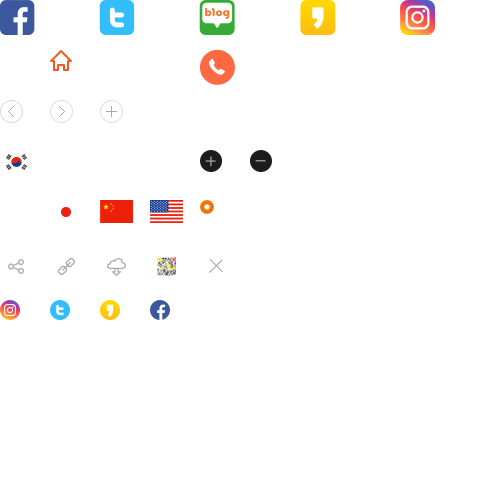
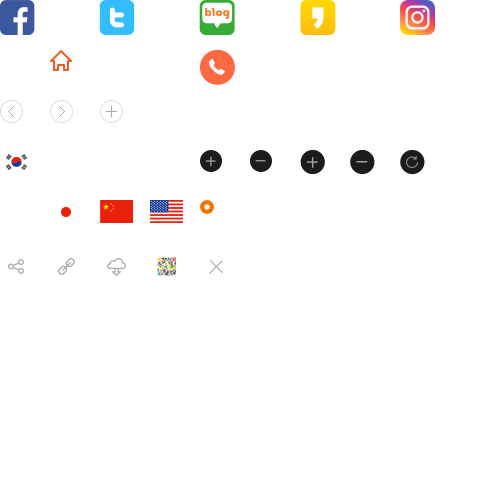
no message

diff --git a/guide/work1.html b/guide/work1.html
@@ -78,7 +78,7 @@
 					<td>민원모니터이해</td><!-- 3depth -->
 					<td></td><!-- 1depth -->
 	 				<td>usc/</td><!-- 경로 -->
-	 				<td><a href="#" target="_blank">usc_part01_01.html</a></td><!-- 파일명 -->
+	 				<td><a href="#" target="_blank">usc_part01_02.html</a></td><!-- 파일명 -->
 	 				<td></td><!-- 완료 날짜 -->
 	 				<td>0</td><!-- 작업 전 0 / 작업 중 1 / 완료 2  -->
 	 				<td></td><!-- 비고  -->
@@ -88,7 +88,7 @@
 					<td>민원실이용안내</td><!-- 3depth -->
 					<td></td><!-- 1depth -->
 	 				<td>usc/</td><!-- 경로 -->
-	 				<td><a href="#" target="_blank">usc_part01_01.html</a></td><!-- 파일명 -->
+	 				<td><a href="#" target="_blank">usc_part01_03.html</a></td><!-- 파일명 -->
 	 				<td></td><!-- 완료 날짜 -->
 	 				<td>0</td><!-- 작업 전 0 / 작업 중 1 / 완료 2  -->
 	 				<td></td><!-- 비고  -->
@@ -98,7 +98,7 @@
 					<td>방문민원상담예약신청</td><!-- 3depth -->
 					<td></td><!-- 1depth -->
 	 				<td>usc/</td><!-- 경로 -->
-	 				<td><a href="#" target="_blank">usc_part01_01.html</a></td><!-- 파일명 -->
+	 				<td><a href="#" target="_blank">usc_part01_04.html</a></td><!-- 파일명 -->
 	 				<td></td><!-- 완료 날짜 -->
 	 				<td>0</td><!-- 작업 전 0 / 작업 중 1 / 완료 2  -->
 	 				<td></td><!-- 비고  -->
@@ -108,7 +108,7 @@
 					<td>방문민원상담예약안내</td><!-- 3depth -->
 					<td></td><!-- 1depth -->
 	 				<td>usc/</td><!-- 경로 -->
-	 				<td><a href="#" target="_blank">usc_part01_01.html</a></td><!-- 파일명 -->
+	 				<td><a href="#" target="_blank">usc_part01_05.html</a></td><!-- 파일명 -->
 	 				<td></td><!-- 완료 날짜 -->
 	 				<td>0</td><!-- 작업 전 0 / 작업 중 1 / 완료 2  -->
 	 				<td></td><!-- 비고  -->

diff --git a/static/css/component.css b/static/css/component.css
@@ -39,6 +39,13 @@
 #header .header-top .header-site li a { display: block; width: 120px; font-size: 12px; color: #fff; line-height: 40px; text-align: center; }
 #header .header-top .header-site .current a { color: #f15a22; background: #fff; }
 #header .header-top .header-site li:nth-child(1).current a:before { background-position: -50px -50px; }
+#header .header-top .header-zoom { float: left; margin-left: 15px; margin-top: 7px; overflow: hidden; }
+#header .header-top .header-zoom dt { float: left; font-size: 12px; color: rgba(255, 255, 255, 0.6); line-height: 24px; }
+#header .header-top .header-zoom dd { float: left; margin-left: 10px; }
+#header .header-top .header-zoom button { width: 24px; height: 24px; background: url("../../static/images/common/sp_icon.png") no-repeat 0 0; text-indent: -999em; }
+#header .header-top .header-zoom button.btn-zoomup { background-position: -300px -150px; }
+#header .header-top .header-zoom button.btn-zoomdown { background-position: -350px -150px; }
+#header .header-top .header-zoom button.btn-zoom100 { background-position: -400px -150px; }
 #header .header-utilegroup { float: right; padding-top: 7px; }
 #header .header-utilegroup .header-utile { display: inline-block; font-size: 11px; color: #e1e1e1; }
 #header .header-utilegroup .header-utile:after { display: block; clear: both; content: ""; }

diff --git a/templates/usc/header.html b/templates/usc/header.html
@@ -10,6 +10,14 @@
 				<li><a href="#" target="_blank" title="새창으로 열림"><span>통합예약시스템</span></a></li>
 				<li><a href="#" target="_blank" title="새창으로 열림"><span>의성군립안계도서관</span></a></li>
 			</ul>
+			<dl class="header-zoom">
+				<dt>크기조절</dt>
+				<dd>
+					<button type="button" class="btn-zoomup"><span>한단계 위로 변경</span></button>
+					<button type="button" class="btn-zoomdown"><span>한단계 아래로 변경</span></button>
+					<button type="button" class="btn-zoom100"><span>기본 크기로 변경</span></button>
+				</dd>
+			</dl>
 			<div class="header-utilegroup">
 				<ul class="header-utile">
 					<li><a href="#"><span>로그인</span></a></li>

diff --git a/static/css/scss/component.scss b/static/css/scss/component.scss
@@ -55,6 +55,17 @@
 			.current a {color:#f15a22; background:#fff; }
 			li:nth-child(1).current a:before {background-position: -50px -50px;} 
 		}
+		.header-zoom {
+			float: left; margin-left: 15px; margin-top: 7px; overflow: hidden;
+			dt {float: left;font-size: 12px; color:rgba(256,256,256,0.6); line-height: 24px;}
+			dd {float: left;margin-left: 10px;}
+			button {
+				width: 24px; height: 24px; @include background("common/sp_icon.png",no-repeat 0 0); text-indent: -999em;
+				&.btn-zoomup {background-position: -300px -150px;}
+				&.btn-zoomdown {background-position:-350px -150px;}
+				&.btn-zoom100 {background-position:-400px -150px;}
+			}
+		}
 	}
 	.header-utilegroup {
 		float: right; padding-top: 7px;
